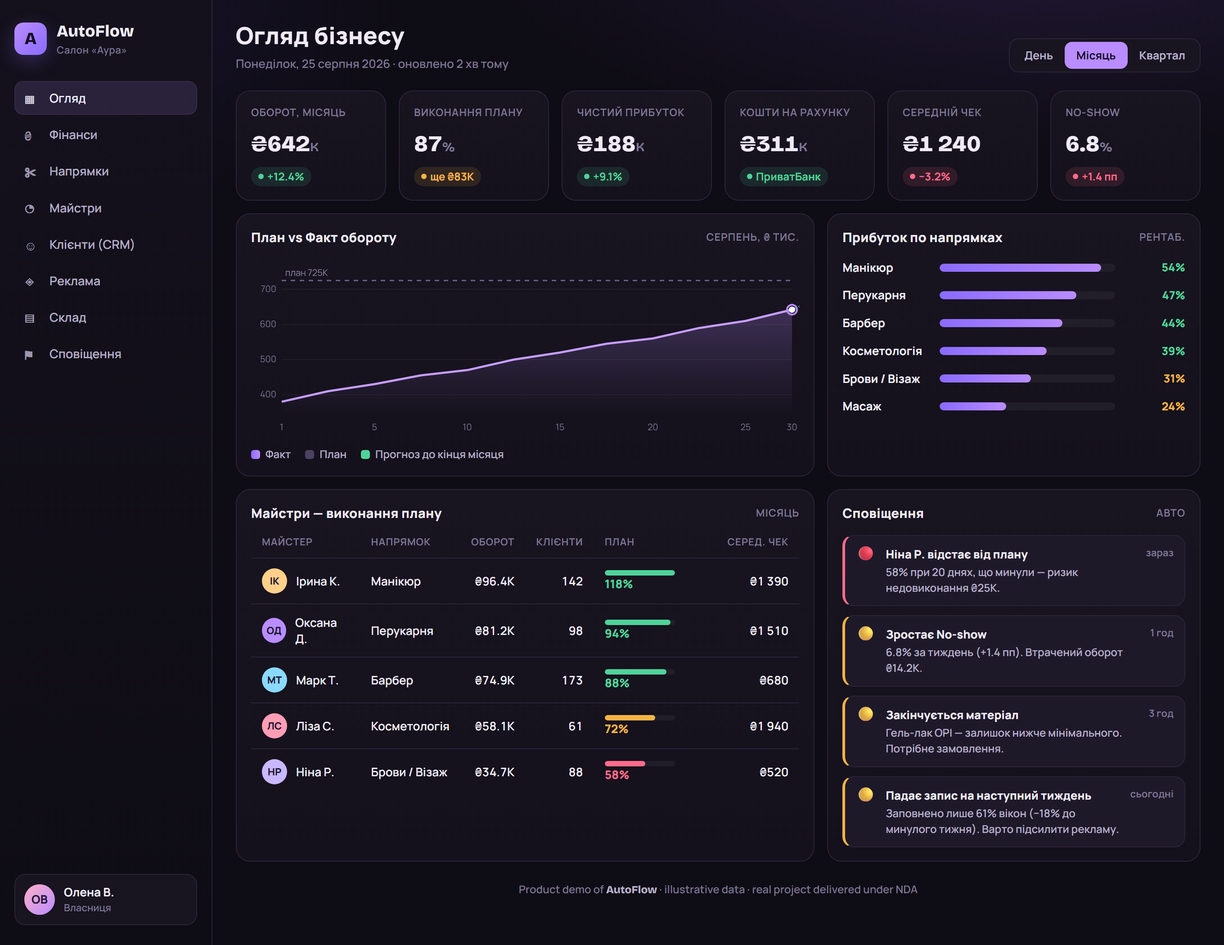
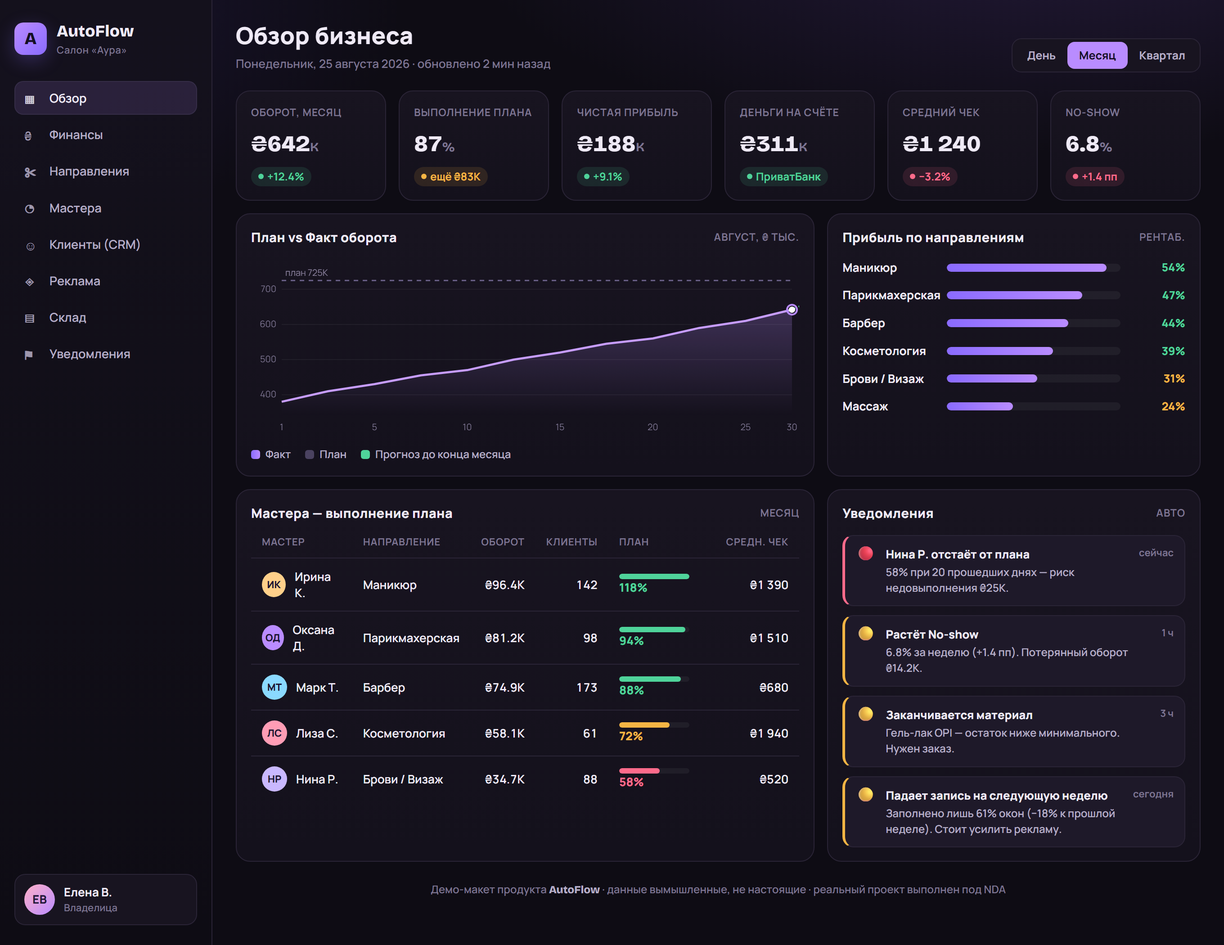
AutoFlow dashboard fully in Russian + fake-data note; raise FULL-STACK on desktop

diff --git a/public/demos/autoflow.html b/public/demos/autoflow.html
@@ -1,5 +1,4 @@
-<!doctype html><html lang="uk"><head><meta charset="utf-8"><meta name="viewport" content="width=device-width,initial-scale=1"></head><body style="margin:0">
-<title>AutoFlow · Салон Аура</title>
+<!doctype html><html lang="ru"><head><meta charset="utf-8"><meta name="viewport" content="width=device-width,initial-scale=1"></head><body style="margin:0"><title>AutoFlow В· РЎР°Р»РѕРЅ РђСѓСЂР°</title>
 <link rel="preconnect" href="https://fonts.googleapis.com">
 <link rel="preconnect" href="https://fonts.gstatic.com" crossorigin>
 <link rel="stylesheet" href="https://fonts.googleapis.com/css2?family=Bricolage+Grotesque:opsz,wght@12..96,500;12..96,700;12..96,800&family=Manrope:wght@400;500;600;700;800&display=swap">
@@ -30,7 +29,6 @@
   .num{font-variant-numeric:tabular-nums}
   .app{display:grid;grid-template-columns:236px 1fr;min-height:100vh}
 
-  /* Sidebar */
   .side{border-right:1px solid var(--line);background:linear-gradient(180deg,var(--bg2),transparent);padding:22px 16px;display:flex;flex-direction:column;gap:26px}
   .brand{display:flex;align-items:center;gap:11px}
   .logo{width:36px;height:36px;border-radius:10px;background:linear-gradient(135deg,var(--accent),var(--accent2));display:grid;place-items:center;font-family:var(--display);font-weight:800;color:#140f22;font-size:19px;box-shadow:0 6px 20px #8a6bff44}
@@ -46,7 +44,6 @@
   .owner small{display:block;color:var(--ink3);font-size:11px;font-weight:600}
   .owner b{font-size:13px;font-weight:700}
 
-  /* Main */
   .main{padding:22px 26px 40px;min-width:0}
   .top{display:flex;align-items:flex-end;justify-content:space-between;gap:16px;flex-wrap:wrap;margin-bottom:20px}
   .top h1{font-family:var(--display);font-size:26px;font-weight:800;letter-spacing:.2px;text-wrap:balance}
@@ -74,22 +71,19 @@
   .ph h3{font-size:14.5px;font-weight:800;letter-spacing:.2px}
   .ph .hint{font-size:11.5px;color:var(--ink3);font-weight:700;text-transform:uppercase;letter-spacing:.5px}
 
-  /* plan vs fact chart */
   .chartwrap{position:relative;height:196px}
   canvas{width:100%;height:100%;display:block}
   .legend{display:flex;gap:16px;margin-top:12px;font-size:12px;color:var(--ink2);font-weight:600}
   .legend i{width:10px;height:10px;border-radius:3px;display:inline-block;margin-right:6px;vertical-align:-1px}
 
-  /* service lines */
   .lines{display:flex;flex-direction:column;gap:12px}
-  .line{display:grid;grid-template-columns:96px 1fr 66px;align-items:center;gap:12px}
+  .line{display:grid;grid-template-columns:104px 1fr 60px;align-items:center;gap:12px}
   .line .nm{font-size:13px;font-weight:700}
   .line .bar{height:9px;border-radius:6px;background:#ffffff0d;overflow:hidden}
   .line .bar span{display:block;height:100%;border-radius:6px;background:linear-gradient(90deg,var(--accent2),var(--accent))}
   .line .pf{text-align:right;font-size:12.5px;font-weight:800;color:var(--good)}
   .line .pf.mid{color:var(--warn)}
 
-  /* masters table */
   .tablewrap{overflow-x:auto}
   table{width:100%;border-collapse:collapse;min-width:520px}
   th{font-size:11px;color:var(--ink3);text-transform:uppercase;letter-spacing:.5px;font-weight:700;text-align:left;padding:0 12px 10px;white-space:nowrap}
@@ -98,11 +92,9 @@
   tbody tr:hover{background:#ffffff06}
   .who{display:flex;align-items:center;gap:10px}
   .who .a{width:28px;height:28px;border-radius:50%;display:grid;place-items:center;font-size:11px;font-weight:800;color:#1c1530}
-  .pill{font-size:11.5px;font-weight:800;padding:3px 9px;border-radius:20px}
   .pbar{height:6px;width:78px;border-radius:5px;background:#ffffff0d;overflow:hidden;display:inline-block;vertical-align:middle;margin-right:9px}
   .pbar span{display:block;height:100%;border-radius:5px}
 
-  /* alerts */
   .alerts{display:flex;flex-direction:column;gap:10px}
   .al{display:flex;gap:11px;padding:11px 12px;border-radius:12px;background:var(--panel2);border:1px solid var(--line);border-left-width:3px}
   .al.c{border-left-color:var(--bad)} .al.w{border-left-color:var(--warn)} .al.i{border-left-color:var(--accent)}
@@ -120,130 +112,127 @@
   <aside class="side">
     <div class="brand">
       <div class="logo">A</div>
-      <div><b>AutoFlow</b><span>Салон «Аура»</span></div>
+      <div><b>AutoFlow</b><span>РЎР°Р»РѕРЅ В«РђСѓСЂР°В»</span></div>
     </div>
     <nav class="nav">
-      <a class="active" href="#"><span class="ic">▦</span> Огляд</a>
-      <a href="#"><span class="ic">₴</span> Фінанси</a>
-      <a href="#"><span class="ic">✂</span> Напрямки</a>
-      <a href="#"><span class="ic">◔</span> Майстри</a>
-      <a href="#"><span class="ic">☺</span> Клієнти (CRM)</a>
-      <a href="#"><span class="ic">◈</span> Реклама</a>
-      <a href="#"><span class="ic">▤</span> Склад</a>
-      <a href="#"><span class="ic">⚑</span> Сповіщення</a>
+      <a class="active" href="#"><span class="ic">в–¦</span> РћР±Р·РѕСЂ</a>
+      <a href="#"><span class="ic">в‚ґ</span> Р¤РёРЅР°РЅСЃС‹</a>
+      <a href="#"><span class="ic">вњ‚</span> РќР°РїСЂР°РІР»РµРЅРёСЏ</a>
+      <a href="#"><span class="ic">в—”</span> РњР°СЃС‚РµСЂР°</a>
+      <a href="#"><span class="ic">вє</span> РљР»РёРµРЅС‚С‹ (CRM)</a>
+      <a href="#"><span class="ic">в—€</span> Р РµРєР»Р°РјР°</a>
+      <a href="#"><span class="ic">в–¤</span> РЎРєР»Р°Рґ</a>
+      <a href="#"><span class="ic">вљ‘</span> РЈРІРµРґРѕРјР»РµРЅРёСЏ</a>
     </nav>
     <div class="owner">
-      <div class="ava">ОВ</div>
-      <div><b>Олена В.</b><small>Власниця</small></div>
+      <div class="ava">Р•Р’</div>
+      <div><b>Р•Р»РµРЅР° Р’.</b><small>Р’Р»Р°РґРµР»РёС†Р°</small></div>
     </div>
   </aside>
 
   <main class="main">
     <div class="top">
       <div>
-        <h1>Огляд бізнесу</h1>
-        <div class="sub">Понеділок, 25 серпня 2026 · оновлено 2 хв тому</div>
+        <h1>РћР±Р·РѕСЂ Р±РёР·РЅРµСЃР°</h1>
+        <div class="sub">РџРѕРЅРµРґРµР»СЊРЅРёРє, 25 Р°РІРіСѓСЃС‚Р° 2026 В· РѕР±РЅРѕРІР»РµРЅРѕ 2 РјРёРЅ РЅР°Р·Р°Рґ</div>
       </div>
       <div class="seg">
-        <button>День</button><button class="on">Місяць</button><button>Квартал</button>
+        <button>Р”РµРЅСЊ</button><button class="on">РњРµСЃСЏС†</button><button>РљРІР°СЂС‚Р°Р»</button>
       </div>
     </div>
 
-    <!-- KPIs -->
     <div class="grid kpis">
       <div class="card kpi">
-        <div class="lab">Оборот, місяць</div>
-        <div class="val num">₴642<small>K</small></div>
+        <div class="lab">РћР±РѕСЂРѕС‚, РјРµСЃСЏС†</div>
+        <div class="val num">в‚ґ642<small>K</small></div>
         <div class="delta up"><span class="dot"></span>+12.4%</div>
       </div>
       <div class="card kpi">
-        <div class="lab">Виконання плану</div>
+        <div class="lab">Р’С‹РїРѕР»РЅРµРЅРёРµ РїР»Р°РЅР°</div>
         <div class="val num">87<small>%</small></div>
-        <div class="delta flat"><span class="dot"></span>ще ₴83K</div>
+        <div class="delta flat"><span class="dot"></span>РµС‰С‘ в‚ґ83K</div>
       </div>
       <div class="card kpi">
-        <div class="lab">Чистий прибуток</div>
-        <div class="val num">₴188<small>K</small></div>
+        <div class="lab">Р§РёСЃС‚Р°СЏ РїСЂРёР±С‹Р»СЊ</div>
+        <div class="val num">в‚ґ188<small>K</small></div>
         <div class="delta up"><span class="dot"></span>+9.1%</div>
       </div>
       <div class="card kpi">
-        <div class="lab">Кошти на рахунку</div>
-        <div class="val num">₴311<small>K</small></div>
-        <div class="delta up"><span class="dot"></span>ПриватБанк</div>
+        <div class="lab">Р”РµРЅСЊРіРё РЅР° СЃС‡С‘С‚Рµ</div>
+        <div class="val num">в‚ґ311<small>K</small></div>
+        <div class="delta up"><span class="dot"></span>РџСЂРёРІР°С‚Р‘Р°РЅРє</div>
       </div>
       <div class="card kpi">
-        <div class="lab">Середній чек</div>
-        <div class="val num">₴1 240</div>
-        <div class="delta down"><span class="dot"></span>−3.2%</div>
+        <div class="lab">РЎСЂРµРґРЅРёР№ С‡РµРє</div>
+        <div class="val num">в‚ґ1 240</div>
+        <div class="delta down"><span class="dot"></span>в€’3.2%</div>
       </div>
       <div class="card kpi">
         <div class="lab">No-show</div>
         <div class="val num">6.8<small>%</small></div>
-        <div class="delta down"><span class="dot"></span>+1.4 пп</div>
+        <div class="delta down"><span class="dot"></span>+1.4 РїРї</div>
       </div>
     </div>
 
-    <!-- Chart + service lines -->
     <div class="grid row2">
       <div class="card">
-        <div class="ph"><h3>План vs Факт обороту</h3><span class="hint">серпень, ₴ тис.</span></div>
+        <div class="ph"><h3>РџР»Р°РЅ vs Р¤Р°РєС‚ РѕР±РѕСЂРѕС‚Р°</h3><span class="hint">Р°РІРіСѓСЃС‚, в‚ґ С‚С‹СЃ.</span></div>
         <div class="chartwrap"><canvas id="chart"></canvas></div>
         <div class="legend">
-          <span><i style="background:linear-gradient(90deg,#8a6bff,#b98cff)"></i>Факт</span>
-          <span><i style="background:#4a4260"></i>План</span>
-          <span><i style="background:#4fd39a"></i>Прогноз до кінця місяця</span>
+          <span><i style="background:linear-gradient(90deg,#8a6bff,#b98cff)"></i>Р¤Р°РєС‚</span>
+          <span><i style="background:#4a4260"></i>РџР»Р°РЅ</span>
+          <span><i style="background:#4fd39a"></i>РџСЂРѕРіРЅРѕР· РґРѕ РєРѕРЅС†Р° РјРµСЃСЏС†Р°</span>
         </div>
       </div>
       <div class="card">
-        <div class="ph"><h3>Прибуток по напрямках</h3><span class="hint">рентаб.</span></div>
+        <div class="ph"><h3>РџСЂРёР±С‹Р»СЊ РїРѕ РЅР°РїСЂР°РІР»РµРЅРёСЏРј</h3><span class="hint">СЂРµРЅС‚Р°Р±.</span></div>
         <div class="lines">
-          <div class="line"><div class="nm">Манікюр</div><div class="bar"><span style="width:92%"></span></div><div class="pf">54%</div></div>
-          <div class="line"><div class="nm">Перукарня</div><div class="bar"><span style="width:78%"></span></div><div class="pf">47%</div></div>
-          <div class="line"><div class="nm">Барбер</div><div class="bar"><span style="width:70%"></span></div><div class="pf">44%</div></div>
-          <div class="line"><div class="nm">Косметологія</div><div class="bar"><span style="width:61%"></span></div><div class="pf">39%</div></div>
-          <div class="line"><div class="nm">Брови / Візаж</div><div class="bar"><span style="width:52%"></span></div><div class="pf mid">31%</div></div>
-          <div class="line"><div class="nm">Масаж</div><div class="bar"><span style="width:38%"></span></div><div class="pf mid">24%</div></div>
+          <div class="line"><div class="nm">РњР°РЅРёРєСЋСЂ</div><div class="bar"><span style="width:92%"></span></div><div class="pf">54%</div></div>
+          <div class="line"><div class="nm">РџР°СЂРёРєРјР°С…РµСЂСЃРєР°СЏ</div><div class="bar"><span style="width:78%"></span></div><div class="pf">47%</div></div>
+          <div class="line"><div class="nm">Р‘Р°СЂР±РµСЂ</div><div class="bar"><span style="width:70%"></span></div><div class="pf">44%</div></div>
+          <div class="line"><div class="nm">РљРѕСЃРјРµС‚РѕР»РѕРіРёСЏ</div><div class="bar"><span style="width:61%"></span></div><div class="pf">39%</div></div>
+          <div class="line"><div class="nm">Р‘СЂРѕРІРё / Р’РёР·Р°Р¶</div><div class="bar"><span style="width:52%"></span></div><div class="pf mid">31%</div></div>
+          <div class="line"><div class="nm">РњР°СЃСЃР°Р¶</div><div class="bar"><span style="width:38%"></span></div><div class="pf mid">24%</div></div>
         </div>
       </div>
     </div>
 
-    <!-- Masters + alerts -->
     <div class="grid row2">
       <div class="card">
-        <div class="ph"><h3>Майстри — виконання плану</h3><span class="hint">місяць</span></div>
+        <div class="ph"><h3>РњР°СЃС‚РµСЂР° вЂ” РІС‹РїРѕР»РЅРµРЅРёРµ РїР»Р°РЅР°</h3><span class="hint">РјРµСЃСЏС†</span></div>
         <div class="tablewrap">
           <table>
-            <thead><tr><th>Майстер</th><th>Напрямок</th><th class="r">Оборот</th><th class="r">Клієнти</th><th>План</th><th class="r">Серед. чек</th></tr></thead>
+            <thead><tr><th>РњР°СЃС‚РµСЂ</th><th>РќР°РїСЂР°РІР»РµРЅРёРµ</th><th class="r">РћР±РѕСЂРѕС‚</th><th class="r">РљР»РёРµРЅС‚С‹</th><th>РџР»Р°РЅ</th><th class="r">РЎСЂРµРґРЅ. С‡РµРє</th></tr></thead>
             <tbody>
               <tr>
-                <td><div class="who"><span class="a" style="background:#ffd08a">ІК</span>Ірина К.</div></td>
-                <td>Манікюр</td><td class="r num">₴96.4K</td><td class="r num">142</td>
+                <td><div class="who"><span class="a" style="background:#ffd08a">РРљ</span>РСЂРёРЅР° Рљ.</div></td>
+                <td>РњР°РЅРёРєСЋСЂ</td><td class="r num">в‚ґ96.4K</td><td class="r num">142</td>
                 <td><span class="pbar"><span style="width:100%;background:var(--good)"></span></span><b style="color:var(--good)">118%</b></td>
-                <td class="r num">₴1 390</td>
+                <td class="r num">в‚ґ1 390</td>
               </tr>
               <tr>
-                <td><div class="who"><span class="a" style="background:#b98cff">ОД</span>Оксана Д.</div></td>
-                <td>Перукарня</td><td class="r num">₴81.2K</td><td class="r num">98</td>
+                <td><div class="who"><span class="a" style="background:#b98cff">РћР”</span>РћРєСЃР°РЅР° Р”.</div></td>
+                <td>РџР°СЂРёРєРјР°С…РµСЂСЃРєР°СЏ</td><td class="r num">в‚ґ81.2K</td><td class="r num">98</td>
                 <td><span class="pbar"><span style="width:94%;background:var(--good)"></span></span><b style="color:var(--good)">94%</b></td>
-                <td class="r num">₴1 510</td>
+                <td class="r num">в‚ґ1 510</td>
               </tr>
               <tr>
-                <td><div class="who"><span class="a" style="background:#8ad9ff">МТ</span>Марк Т.</div></td>
-                <td>Барбер</td><td class="r num">₴74.9K</td><td class="r num">173</td>
+                <td><div class="who"><span class="a" style="background:#8ad9ff">РњРў</span>РњР°СЂРє Рў.</div></td>
+                <td>Р‘Р°СЂР±РµСЂ</td><td class="r num">в‚ґ74.9K</td><td class="r num">173</td>
                 <td><span class="pbar"><span style="width:88%;background:var(--good)"></span></span><b style="color:var(--good)">88%</b></td>
-                <td class="r num">₴680</td>
+                <td class="r num">в‚ґ680</td>
               </tr>
               <tr>
-                <td><div class="who"><span class="a" style="background:#ff9db5">ЛС</span>Ліза С.</div></td>
-                <td>Косметологія</td><td class="r num">₴58.1K</td><td class="r num">61</td>
+                <td><div class="who"><span class="a" style="background:#ff9db5">Р›РЎ</span>Р›РёР·Р° РЎ.</div></td>
+                <td>РљРѕСЃРјРµС‚РѕР»РѕРіРёСЏ</td><td class="r num">в‚ґ58.1K</td><td class="r num">61</td>
                 <td><span class="pbar"><span style="width:72%;background:var(--warn)"></span></span><b style="color:var(--warn)">72%</b></td>
-                <td class="r num">₴1 940</td>
+                <td class="r num">в‚ґ1 940</td>
               </tr>
               <tr>
-                <td><div class="who"><span class="a" style="background:#c9b8ff">НР</span>Ніна Р.</div></td>
-                <td>Брови / Візаж</td><td class="r num">₴34.7K</td><td class="r num">88</td>
+                <td><div class="who"><span class="a" style="background:#c9b8ff">РќР </span>РќРёРЅР° Р .</div></td>
+                <td>Р‘СЂРѕРІРё / Р’РёР·Р°Р¶</td><td class="r num">в‚ґ34.7K</td><td class="r num">88</td>
                 <td><span class="pbar"><span style="width:58%;background:var(--bad)"></span></span><b style="color:var(--bad)">58%</b></td>
-                <td class="r num">₴520</td>
+                <td class="r num">в‚ґ520</td>
               </tr>
             </tbody>
           </table>
@@ -251,17 +240,17 @@
       </div>
 
       <div class="card">
-        <div class="ph"><h3>Сповіщення</h3><span class="hint">авто</span></div>
+        <div class="ph"><h3>РЈРІРµРґРѕРјР»РµРЅРёСЏ</h3><span class="hint">Р°РІС‚Рѕ</span></div>
         <div class="alerts">
-          <div class="al c"><span class="stripe">🔴</span><div style="flex:1"><b>Ніна Р. відстає від плану</b><p>58% при 20 днях, що минули — ризик недовиконання ₴25K.</p></div><time>зараз</time></div>
-          <div class="al w"><span class="stripe">🟡</span><div style="flex:1"><b>Зростає No-show</b><p>6.8% за тиждень (+1.4 пп). Втрачений оборот ₴14.2K.</p></div><time>1 год</time></div>
-          <div class="al w"><span class="stripe">🟡</span><div style="flex:1"><b>Закінчується матеріал</b><p>Гель-лак OPI — залишок нижче мінімального. Потрібне замовлення.</p></div><time>3 год</time></div>
-          <div class="al w"><span class="stripe">🟡</span><div style="flex:1"><b>Падає запис на наступний тиждень</b><p>Заповнено лише 61% вікон (−18% до минулого тижня). Варто підсилити рекламу.</p></div><time>сьогодні</time></div>
+          <div class="al c"><span class="stripe">рџ”ґ</span><div style="flex:1"><b>РќРёРЅР° Р . РѕС‚СЃС‚Р°С‘С‚ РѕС‚ РїР»Р°РЅР°</b><p>58% РїСЂРё 20 РїСЂРѕС€РµРґС€РёС… РґРЅСЏС… вЂ” СЂРёСЃРє РЅРµРґРѕРІС‹РїРѕР»РЅРµРЅРёСЏ в‚ґ25K.</p></div><time>СЃРµР№С‡Р°СЃ</time></div>
+          <div class="al w"><span class="stripe">рџџЎ</span><div style="flex:1"><b>Р Р°СЃС‚С‘С‚ No-show</b><p>6.8% Р·Р° РЅРµРґРµР»СЋ (+1.4 РїРї). РџРѕС‚РµСЂСЏРЅРЅС‹Р№ РѕР±РѕСЂРѕС‚ в‚ґ14.2K.</p></div><time>1 С‡</time></div>
+          <div class="al w"><span class="stripe">рџџЎ</span><div style="flex:1"><b>Р—Р°РєР°РЅС‡РёРІР°РµС‚СЃСЏ РјР°С‚РµСЂРёР°Р»</b><p>Р“РµР»СЊ-Р»Р°Рє OPI вЂ” РѕСЃС‚Р°С‚РѕРє РЅРёР¶Рµ РјРёРЅРёРјР°Р»СЊРЅРѕРіРѕ. РќСѓР¶РµРЅ Р·Р°РєР°Р·.</p></div><time>3 С‡</time></div>
+          <div class="al w"><span class="stripe">рџџЎ</span><div style="flex:1"><b>РџР°РґР°РµС‚ Р·Р°РїРёСЃСЊ РЅР° СЃР»РµРґСѓСЋС‰СѓСЋ РЅРµРґРµР»СЋ</b><p>Р—Р°РїРѕР»РЅРµРЅРѕ Р»РёС€СЊ 61% РѕРєРѕРЅ (в€’18% Рє РїСЂРѕС€Р»РѕР№ РЅРµРґРµР»Рµ). РЎС‚РѕРёС‚ СѓСЃРёР»РёС‚СЊ СЂРµРєР»Р°РјСѓ.</p></div><time>СЃРµРіРѕРґРЅСЏ</time></div>
         </div>
       </div>
     </div>
 
-    <div class="foot">Product demo of <b>AutoFlow</b> · illustrative data · real project delivered under NDA</div>
+    <div class="foot">Р”РµРјРѕ-РјР°РєРµС‚ РїСЂРѕРґСѓРєС‚Р° <b>AutoFlow</b> В· РґР°РЅРЅС‹Рµ РІС‹РјС‹С€Р»РµРЅРЅС‹Рµ, РЅРµ РЅР°СЃС‚РѕСЏС‰РёРµ В· СЂРµР°Р»СЊРЅС‹Р№ РїСЂРѕРµРєС‚ РІС‹РїРѕР»РЅРµРЅ РїРѕРґ NDA</div>
   </main>
 </div>
 
@@ -271,34 +260,27 @@
   var ctx=c.getContext('2d'), DPR=Math.min(window.devicePixelRatio||1,2);
   function draw(){
     var w=c.clientWidth,h=c.clientHeight; c.width=w*DPR; c.height=h*DPR; ctx.setTransform(DPR,0,0,DPR,0,0); ctx.clearRect(0,0,w,h);
-    var fact=[]; var base=[380,410,430,455,470,500,520,545,560,590,610,642];
+    var base=[380,410,430,455,470,500,520,545,560,590,610,642];
     var plan=725; var labels=['1','','5','','10','','15','','20','','25','30'];
     var pad={l:34,r:8,t:10,b:22}, gw=w-pad.l-pad.r, gh=h-pad.t-pad.b;
     var max=760, min=340;
     function X(i){return pad.l+gw*i/11}
     function Y(v){return pad.t+gh*(1-(v-min)/(max-min))}
-    // grid + y labels
     ctx.font='10px Manrope, sans-serif'; ctx.fillStyle='#7d7591'; ctx.textAlign='right';
     [400,500,600,700].forEach(function(v){ var y=Y(v); ctx.strokeStyle='#ffffff0d'; ctx.beginPath();ctx.moveTo(pad.l,y);ctx.lineTo(w-pad.r,y);ctx.stroke(); ctx.fillText(v,pad.l-6,y+3); });
-    // plan line (dashed)
     var yp=Y(plan); ctx.setLineDash([5,5]); ctx.strokeStyle='#6a6088'; ctx.lineWidth=1.5; ctx.beginPath();ctx.moveTo(pad.l,yp);ctx.lineTo(w-pad.r,yp);ctx.stroke(); ctx.setLineDash([]);
-    ctx.textAlign='left'; ctx.fillStyle='#8b829e'; ctx.fillText('план 725K',pad.l+4,yp-5);
-    // area fact (solid to index 11 which is 'today' -> actually forecast after)
+    ctx.textAlign='left'; ctx.fillStyle='#8b829e'; ctx.fillText('РїР»Р°РЅ 725K',pad.l+4,yp-5);
     var solidEnd=11;
     var grad=ctx.createLinearGradient(0,pad.t,0,pad.t+gh); grad.addColorStop(0,'#b98cff55'); grad.addColorStop(1,'#b98cff00');
     ctx.beginPath(); ctx.moveTo(X(0),Y(base[0]));
     for(var i=1;i<=solidEnd;i++) ctx.lineTo(X(i),Y(base[i]));
     ctx.lineTo(X(solidEnd),pad.t+gh); ctx.lineTo(X(0),pad.t+gh); ctx.closePath(); ctx.fillStyle=grad; ctx.fill();
-    // fact stroke
     ctx.beginPath(); ctx.moveTo(X(0),Y(base[0]));
     for(i=1;i<=solidEnd;i++) ctx.lineTo(X(i),Y(base[i]));
     ctx.strokeStyle='#c79dff'; ctx.lineWidth=2.4; ctx.lineJoin='round'; ctx.stroke();
-    // forecast dashed continuation
     ctx.setLineDash([4,4]); ctx.strokeStyle='#4fd39a'; ctx.lineWidth=2; ctx.beginPath(); ctx.moveTo(X(11),Y(642)); ctx.lineTo(X(11)+ (X(1)-X(0)) ,Y(700)); ctx.stroke(); ctx.setLineDash([]);
-    // endpoint dot
     ctx.fillStyle='#fff'; ctx.beginPath(); ctx.arc(X(11),Y(642),3.5,0,7); ctx.fill();
     ctx.strokeStyle='#b98cff'; ctx.lineWidth=2; ctx.beginPath(); ctx.arc(X(11),Y(642),5.5,0,7); ctx.stroke();
-    // x labels
     ctx.fillStyle='#7d7591'; ctx.textAlign='center';
     labels.forEach(function(t,i){ if(t) ctx.fillText(t,X(i),h-6); });
   }

diff --git a/src/components/styles/Landing.css b/src/components/styles/Landing.css
@@ -390,7 +390,7 @@
 
 .landing-info h2 {
   margin: 0;
-  margin-top: -20px;
+  margin-top: 10px;
   margin-left: 20px;
   font-family: "Geist", sans-serif;
   font-weight: 600;
